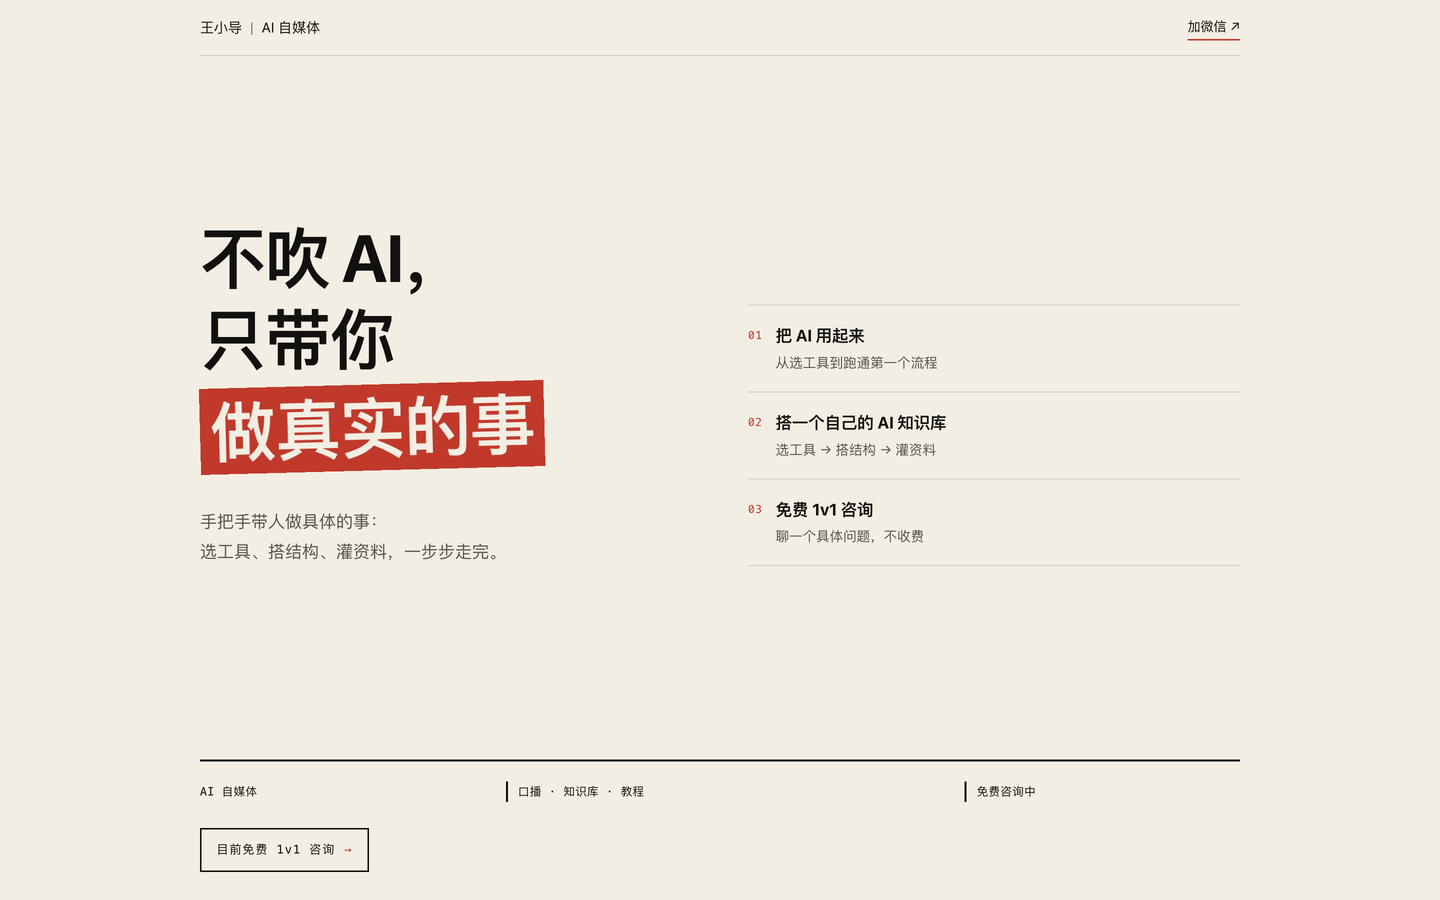
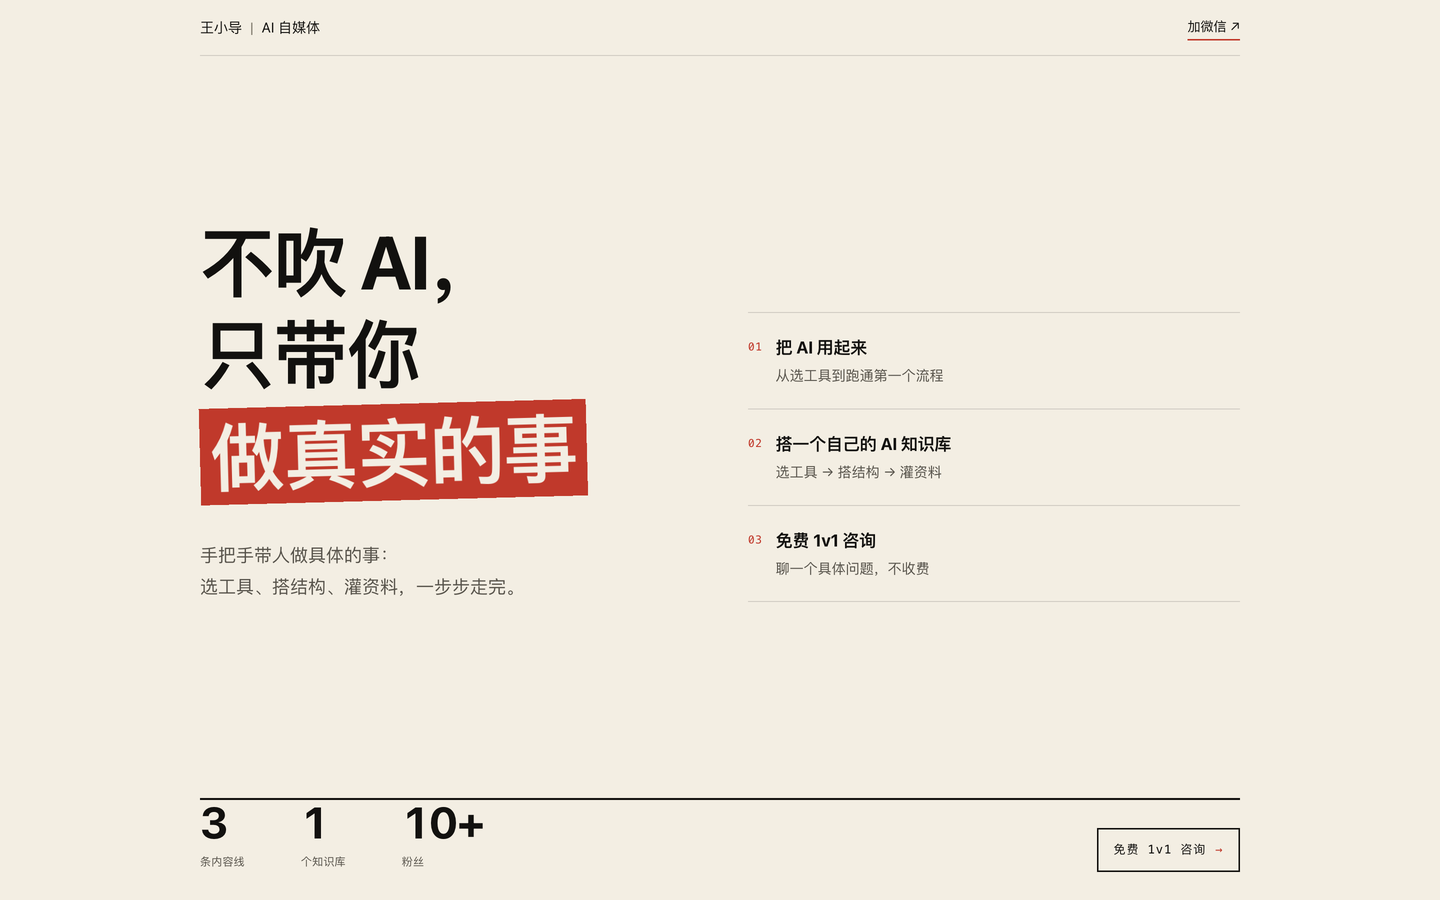
桌面首屏补满：数字与咨询入口提到首屏底部
- 首屏标题 68→80px，导语 18px，清单条目内距 18→22px
- 首屏底部新增数字条（3 条内容线 / 1 个知识库 / 10+ 粉丝），右侧接「免费 1v1 咨询」入口
- 桌面端隐藏独立的墨黑数字带，避免同一组数字出现两次；手机端保留
- README 结构与截图同步

diff --git a/index.html b/index.html
@@ -121,6 +121,8 @@
 
   .hero-foot{margin-top:auto;padding-top:32px}
   .rule{height:2px;background:var(--ink)}
+  .foot-row{display:block}
+  .stats{display:none}
   .strip{display:grid;grid-template-columns:1fr 1.5fr .9fr;margin-top:20px}
   .strip div{font-family:var(--mono);font-size:11.5px;letter-spacing:.03em}
   .strip div + div{border-left:2px solid var(--ink);padding-left:10px}
@@ -288,13 +290,26 @@
       column-gap:56px;
       align-items:center;
     }
-    h1{font-size:clamp(48px,4.6vw,68px)}
-    .lede{font-size:17px;margin-top:32px;max-width:none}
+    h1{font-size:clamp(52px,5.2vw,80px)}
+    .lede{font-size:18px;margin-top:34px;max-width:none}
     .can{grid-column:2;grid-row:1 / span 2;align-self:end;margin-top:0;max-width:none}
-    .can li{padding:18px 0}
-    .can li b{font-size:16.5px}
-    .can li .sub{font-size:13.5px;margin-top:5px}
-    .hero-foot{padding-top:32px}
+    .can li{padding:22px 0}
+    .can li b{font-size:17px}
+    .can li .sub{font-size:14px;margin-top:5px}
+    .hero-foot{padding-top:36px}
+    .foot-row{display:flex;justify-content:space-between;align-items:flex-end;gap:48px}
+    .strip{display:none}
+    .stats{display:flex;gap:56px}
+    .stat b{
+      display:block;font-size:44px;font-weight:700;line-height:1;
+      letter-spacing:-.03em;font-variant-numeric:tabular-nums;
+    }
+    .stat span{
+      display:block;font-family:var(--mono);font-size:11px;
+      color:var(--gray);margin-top:8px;letter-spacing:.02em;
+    }
+    .stamp{margin-top:0}
+    .band{display:none}
     .sec-head{margin-bottom:32px}
     .sec-head h2{font-size:32px}
     .about{grid-template-columns:150px 1fr;gap:32px;align-items:start}
@@ -304,8 +319,6 @@
     .card:last-child{grid-column:auto}
     .card{padding:28px 24px}
     .about-text p{max-width:38em}
-    .band{padding:56px 0}
-    .band .inner{grid-template-columns:repeat(3,1fr)}
     .contact{padding:88px 0 80px;position:relative;overflow:hidden}
     .contact .note{max-width:32em}
     .act{margin-top:34px;text-align:left}
@@ -356,12 +369,19 @@
 
   <div class="hero-foot">
     <div class="rule"></div>
-    <div class="strip">
-      <div>AI 自媒体</div>
-      <div>口播 · 知识库 · 教程</div>
-      <div>免费咨询中</div>
+    <div class="foot-row">
+      <div class="strip">
+        <div>AI 自媒体</div>
+        <div>口播 · 知识库 · 教程</div>
+        <div>免费咨询中</div>
+      </div>
+      <div class="stats">
+        <div class="stat"><b>3</b><span>条内容线</span></div>
+        <div class="stat"><b>1</b><span>个知识库</span></div>
+        <div class="stat"><b>10+</b><span>粉丝</span></div>
+      </div>
+      <a class="stamp" href="#contact">免费 1v1 咨询<span class="arr">→</span></a>
     </div>
-    <a class="stamp" href="#contact">目前免费 1v1 咨询<span class="arr">→</span></a>
   </div>
 </header>
 

diff --git a/README.md b/README.md
@@ -19,10 +19,10 @@
 
 | 区块 | 内容 |
 |---|---|
-| 首屏 | 一句话主张、三条「我能帮你做什么」、底部信息条与「目前免费 1v1 咨询」章 |
+| 首屏 | 一句话主张、三条「我能帮你做什么」、底部数字（3 条内容线 / 1 个知识库 / 10+ 粉丝）与免费咨询入口 |
 | 01 关于我 | 头像 + 三段第一人称自述 |
 | 02 在做的事 | 三张硬边卡片：AI 知识库、口播练习、公众号 AI 实操教程 |
-| 数字带 | 三条内容线 / 1 个知识库 / 10+ 粉丝 |
+| 数字带（手机端） | 墨黑底色，三条内容线 / 1 个知识库 / 10+ 粉丝；桌面端这组数字在首屏底部 |
 | 咨询 | 免费 1v1 咨询，一键复制微信号 |
 | 页脚 | 署名与年份 |
 
